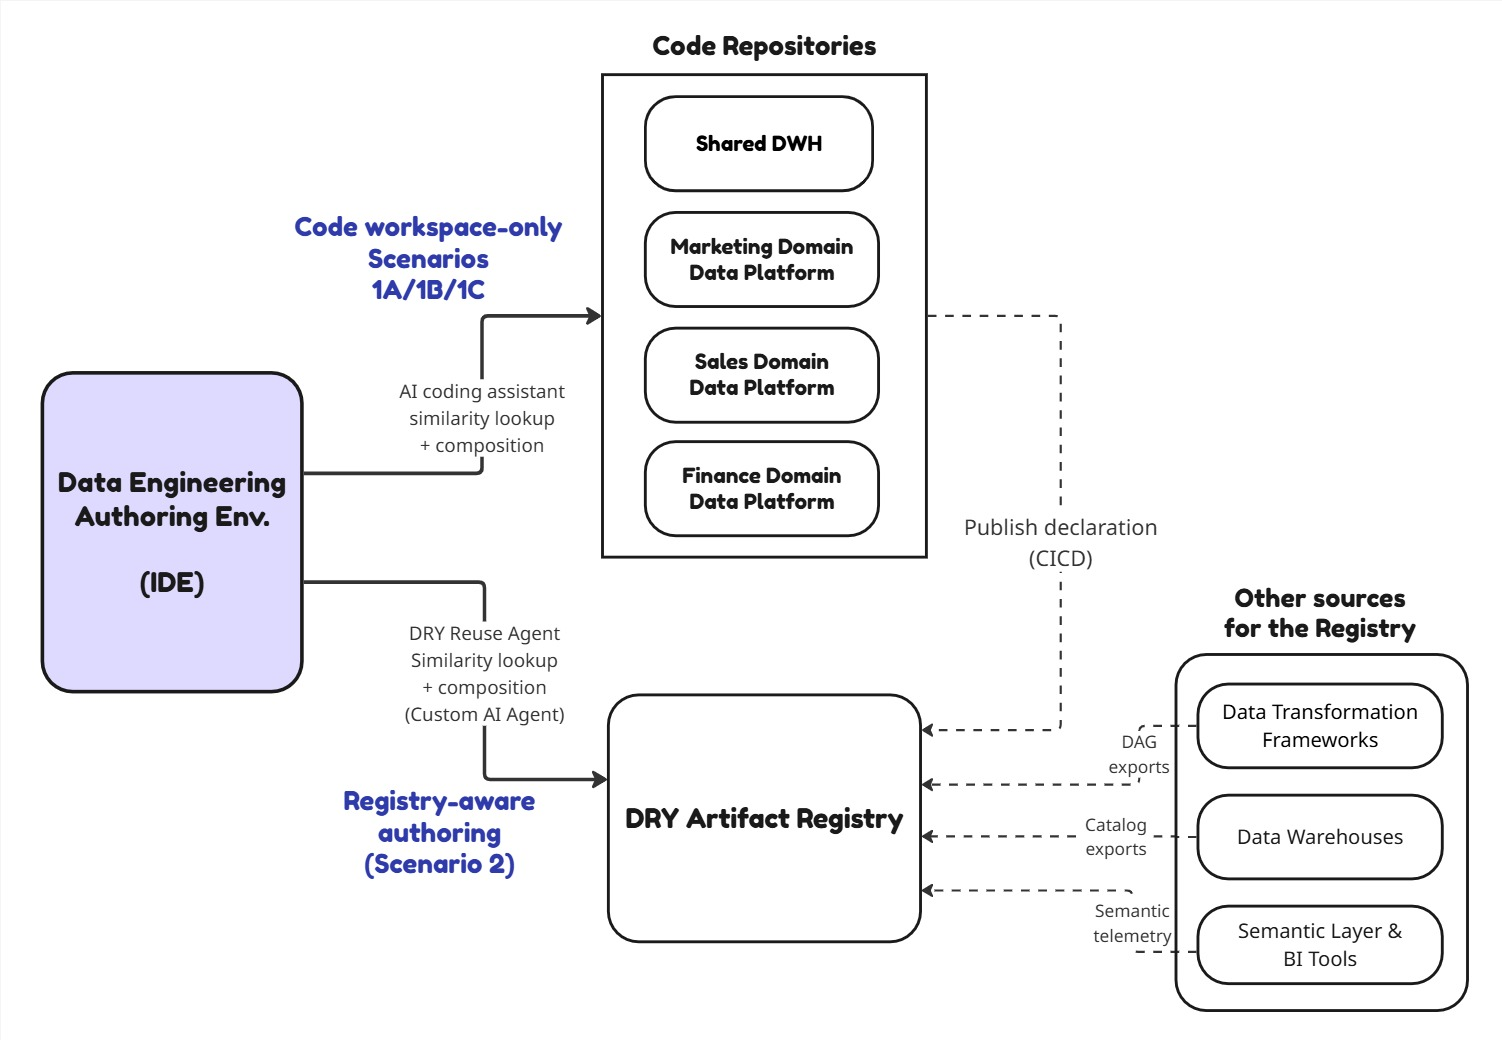
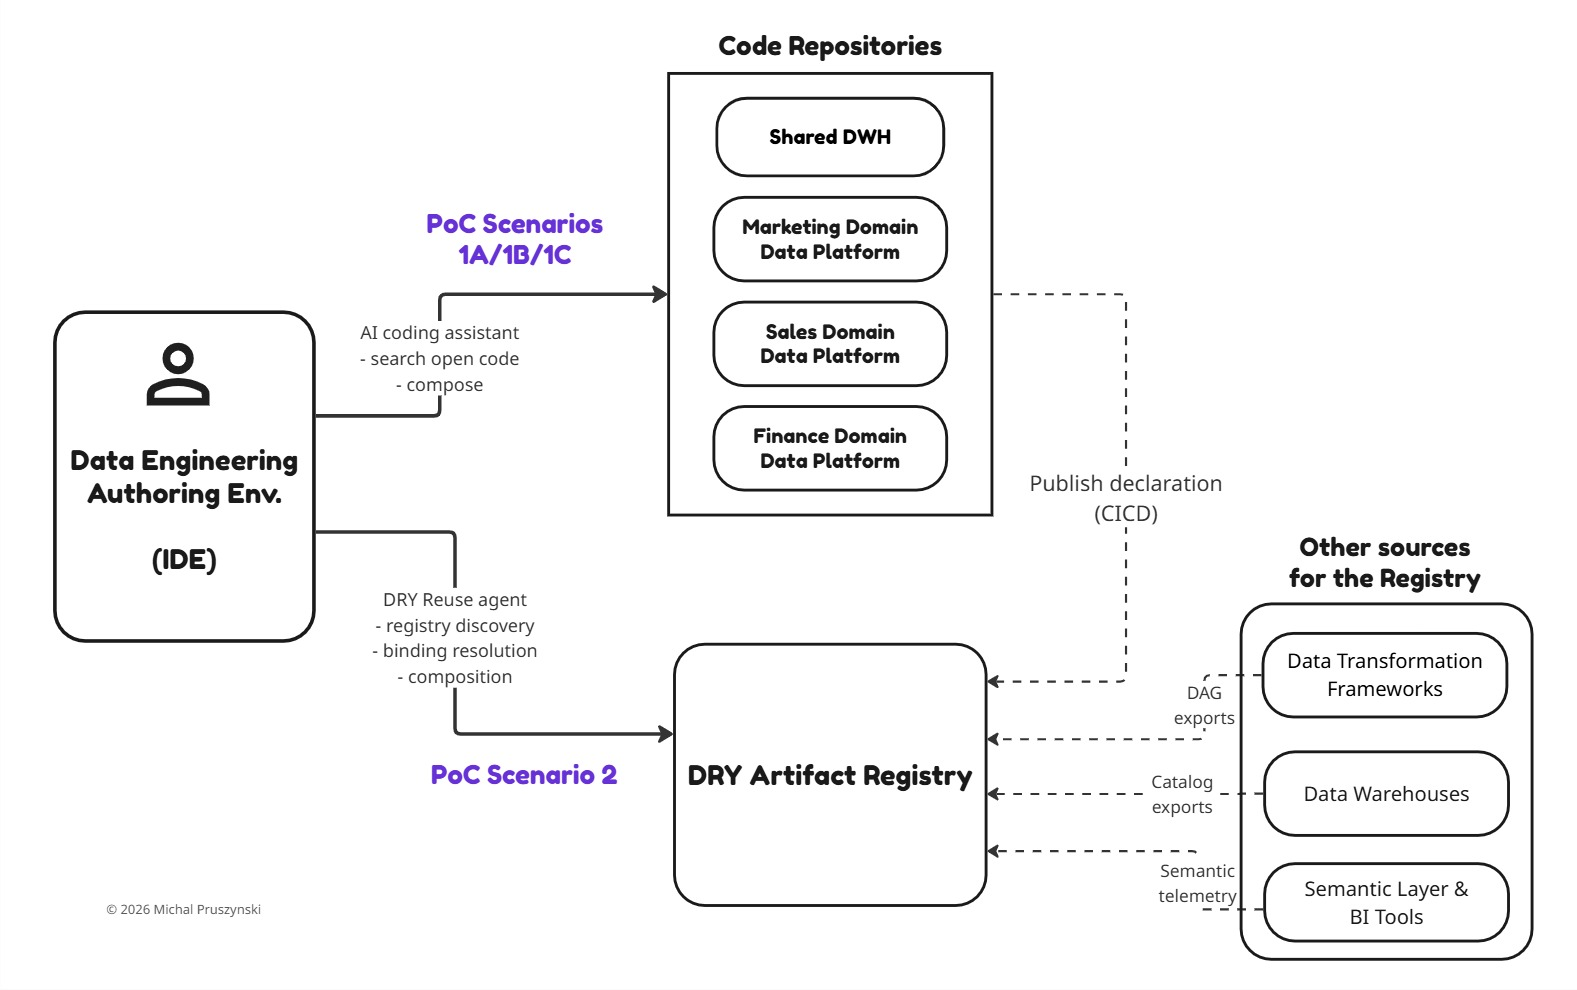
update

Changed region(s): [[0.0, 0.0303, 0.98, 1.0], [0.0613, 0.9091, 0.1531, 0.9394]]

diff --git a/registry-aware-authoring/article.md b/registry-aware-authoring/article.md
@@ -21,7 +21,8 @@ This article reports a small proof of concept that tested how well it does. The 
 
 ## The test: one metric, three models, four setups
 The diagram below maps the ARPAC use case across the enterprise data platform, highlighting the artifacts exposed for AI coding assistant and the two certified enterprise definitions (marked green) that the governed metric should reuse. Additionally it has been assumed that the company uses different tools/enignes to test how AI models will handle cross-platform bindings. Snowflake and Databricks have been chosen as examples.
-<img src="../publications/assets-diagrams/registry-aware-authoring-poc-scenarios.jpg" alt="Data Landscape In The PoC" width="70%">
+
+<img src="../publications/assets-diagrams/registry-aware-authoring-poc-scenarios.jpg" alt="Data Landscape In The PoC" width="80%">
 
 The PoC runs the same ARPAC task through four authoring setups and three current models: **GPT-5.5**, **Claude Sonnet 4.6**, and **Claude Opus 4.8**. In this Poc the GitHub Copilot was used with VS Code IDE. Below are the certain artifacts exposed for the models:
 
@@ -29,7 +30,7 @@ The PoC runs the same ARPAC task through four authoring setups and three current
 |---|---|---|
 | **Workspace-only (base tables)** | **Scenario 1A** | The shared warehouse base tables: `dim_customers`, `fact_invoices`, and `fact_refunds` |
 | **Workspace-only (base tables + domain repositories)** | **Scenario 1B** | The base tables plus chosen Finance and Marketing domain code, so the assistant can find similar existing logic |
-| **Workspace-only (all existing codebase)** | **Scenario 1C** | The *entire* codebase across every domain — including the certified recognition logic and active-customer definition as source — the most optimistic workspace assumption |
+| **Workspace-only (all existing codebase)** | **Scenario 1C** | The *entire* codebase across every domain, including the certified recognition logic and active-customer definition as source. This is the most optimistic workspace assumption |
 | **Registry-aware authoring** | **Scenario 2** | The **DRY Artifact Registry**, exposed as structured tools over a thin MCP server and driven by the custom **DRY Reuse agent** |
 
 ### Authoring-time Reuse Architecture 
